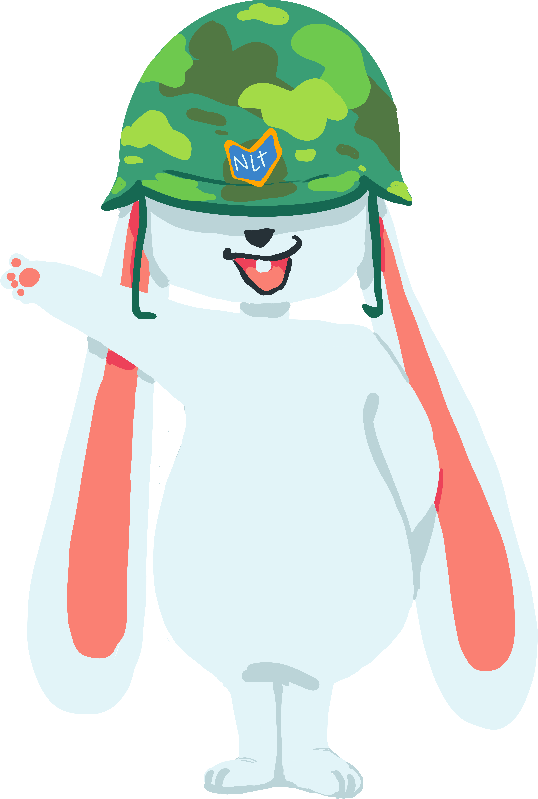
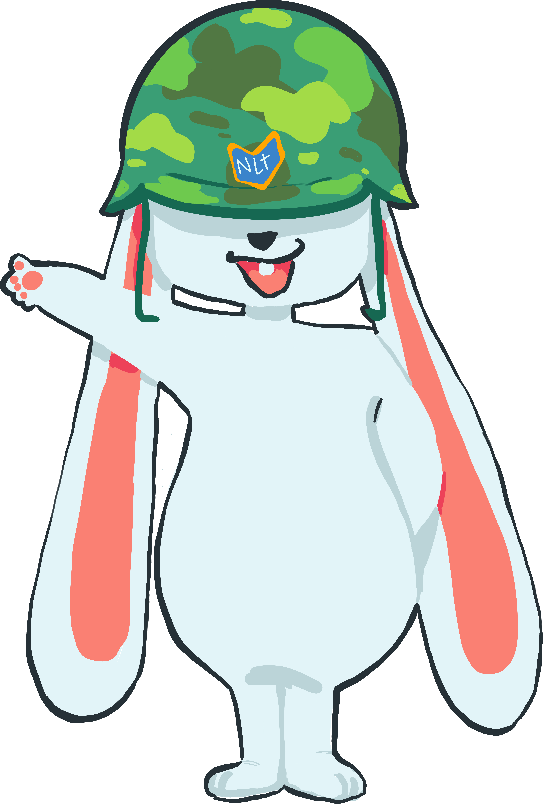
Improve image of team and rabbit

diff --git a/css/nlt.css b/css/nlt.css
@@ -467,7 +467,7 @@ section.image-card p {
     }
     article#proyectos footer {
         grid-column: 1/4;
-        background-image: url(../img/rabbit-on-chair.png);
+        background-image: url(../img/more-or-less.png);
         background-repeat: no-repeat;
         background-size: auto 100%;
         background-position: bottom left;
